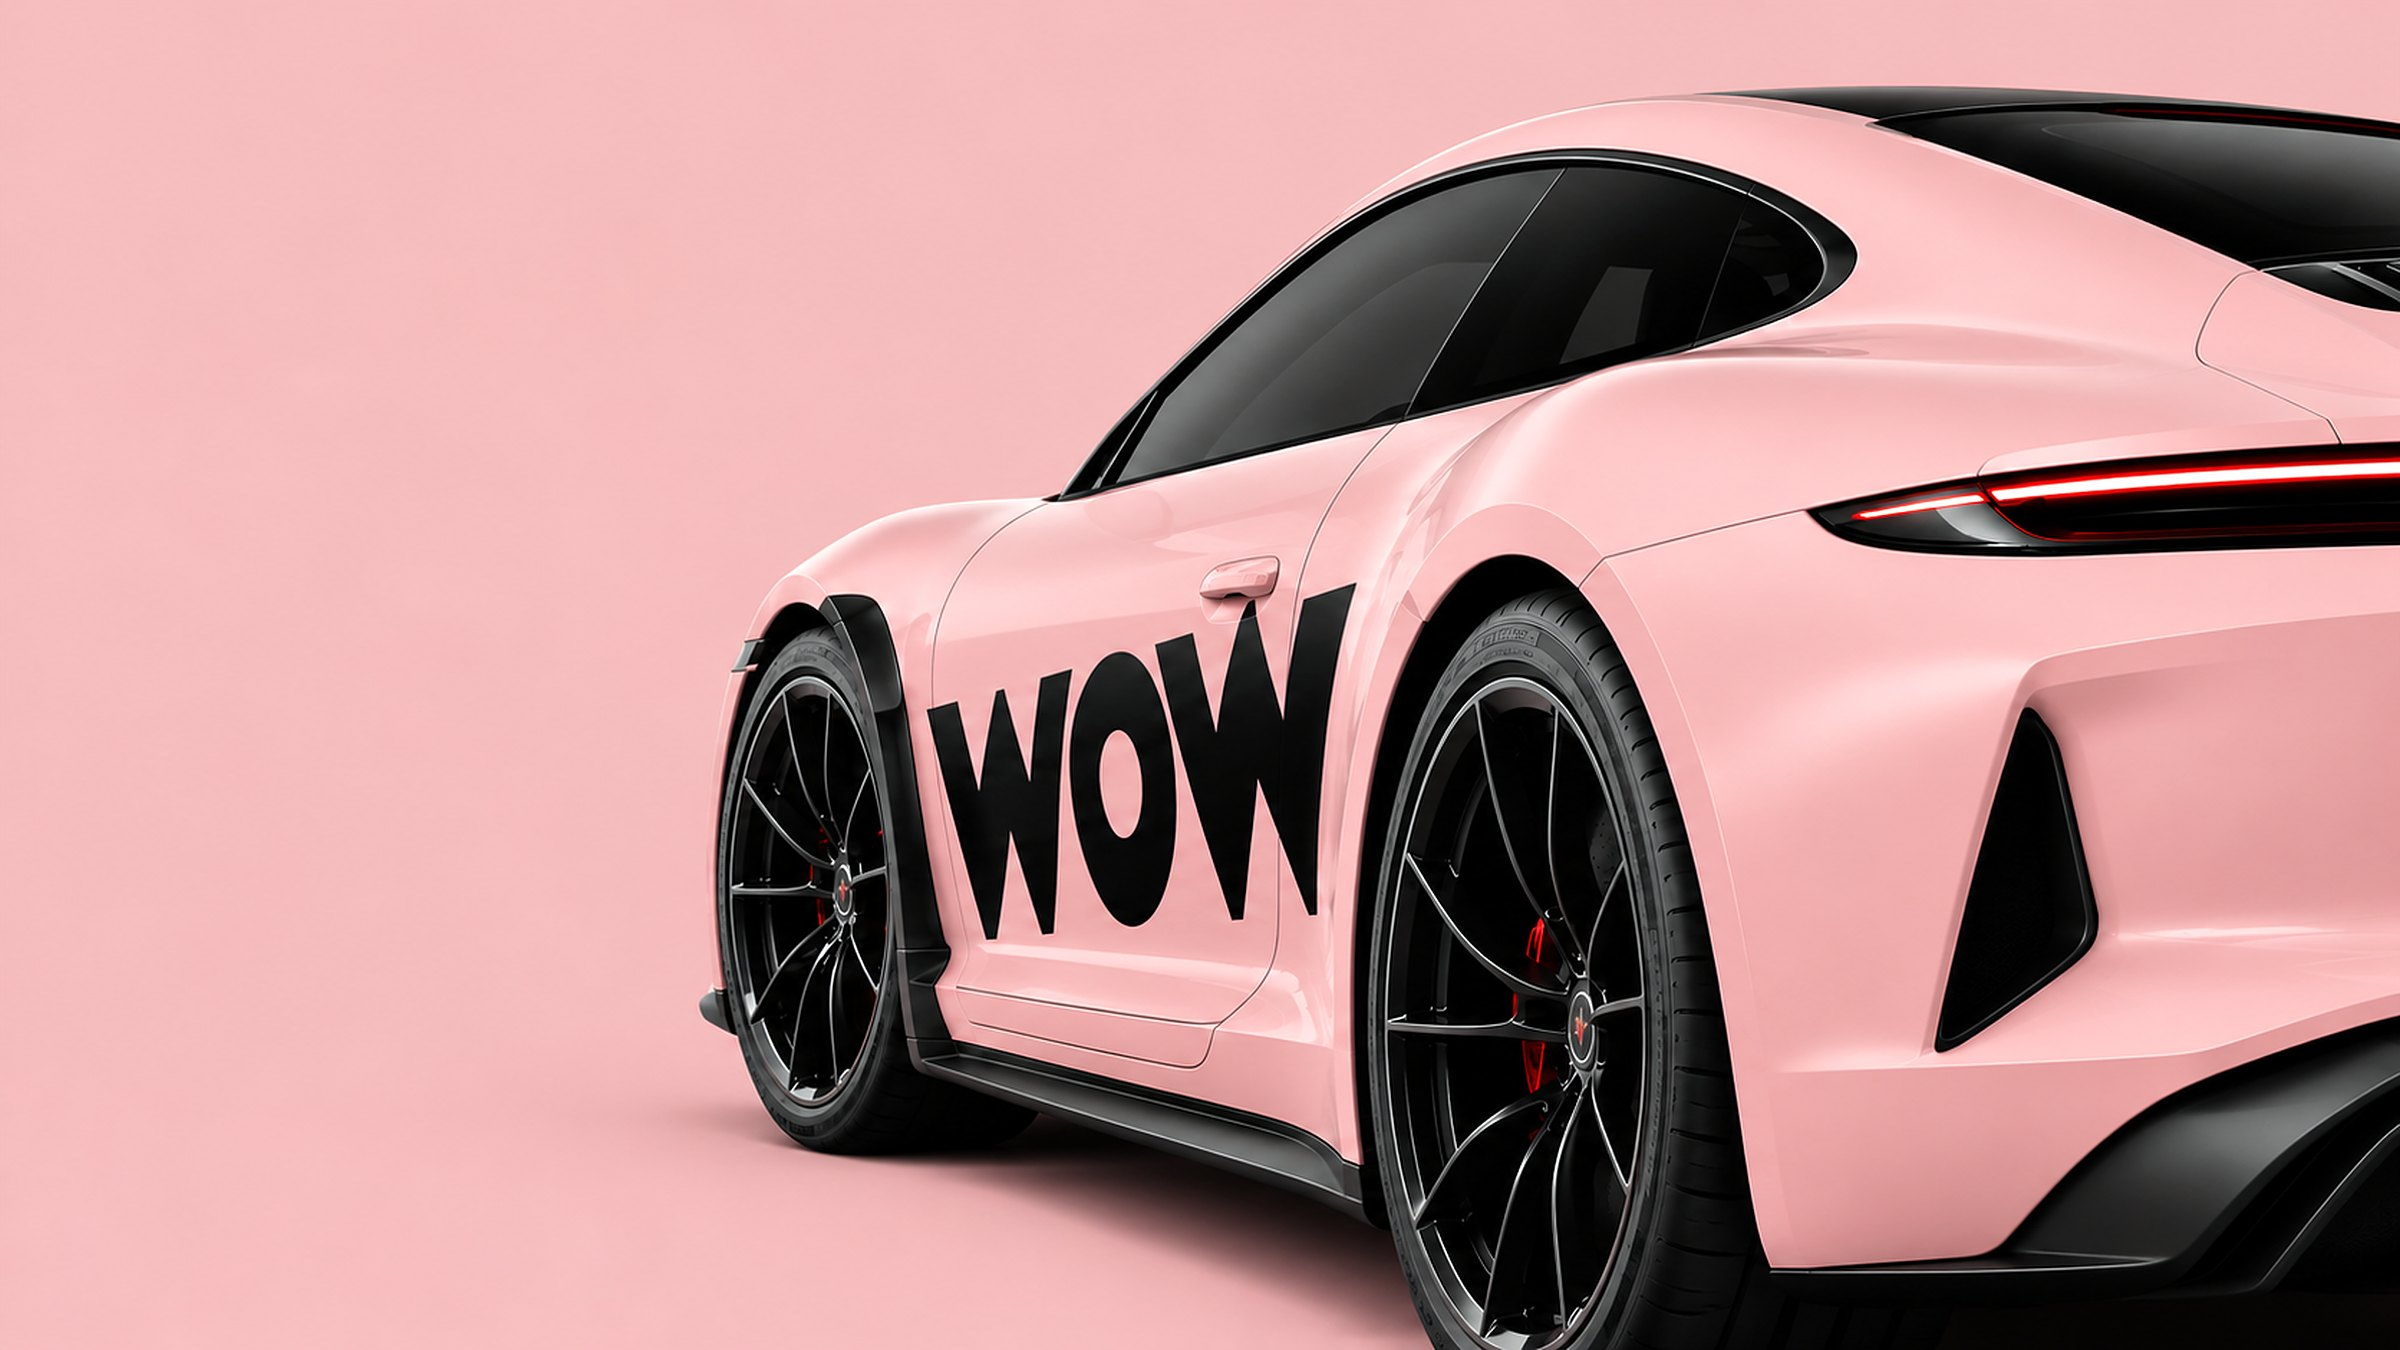
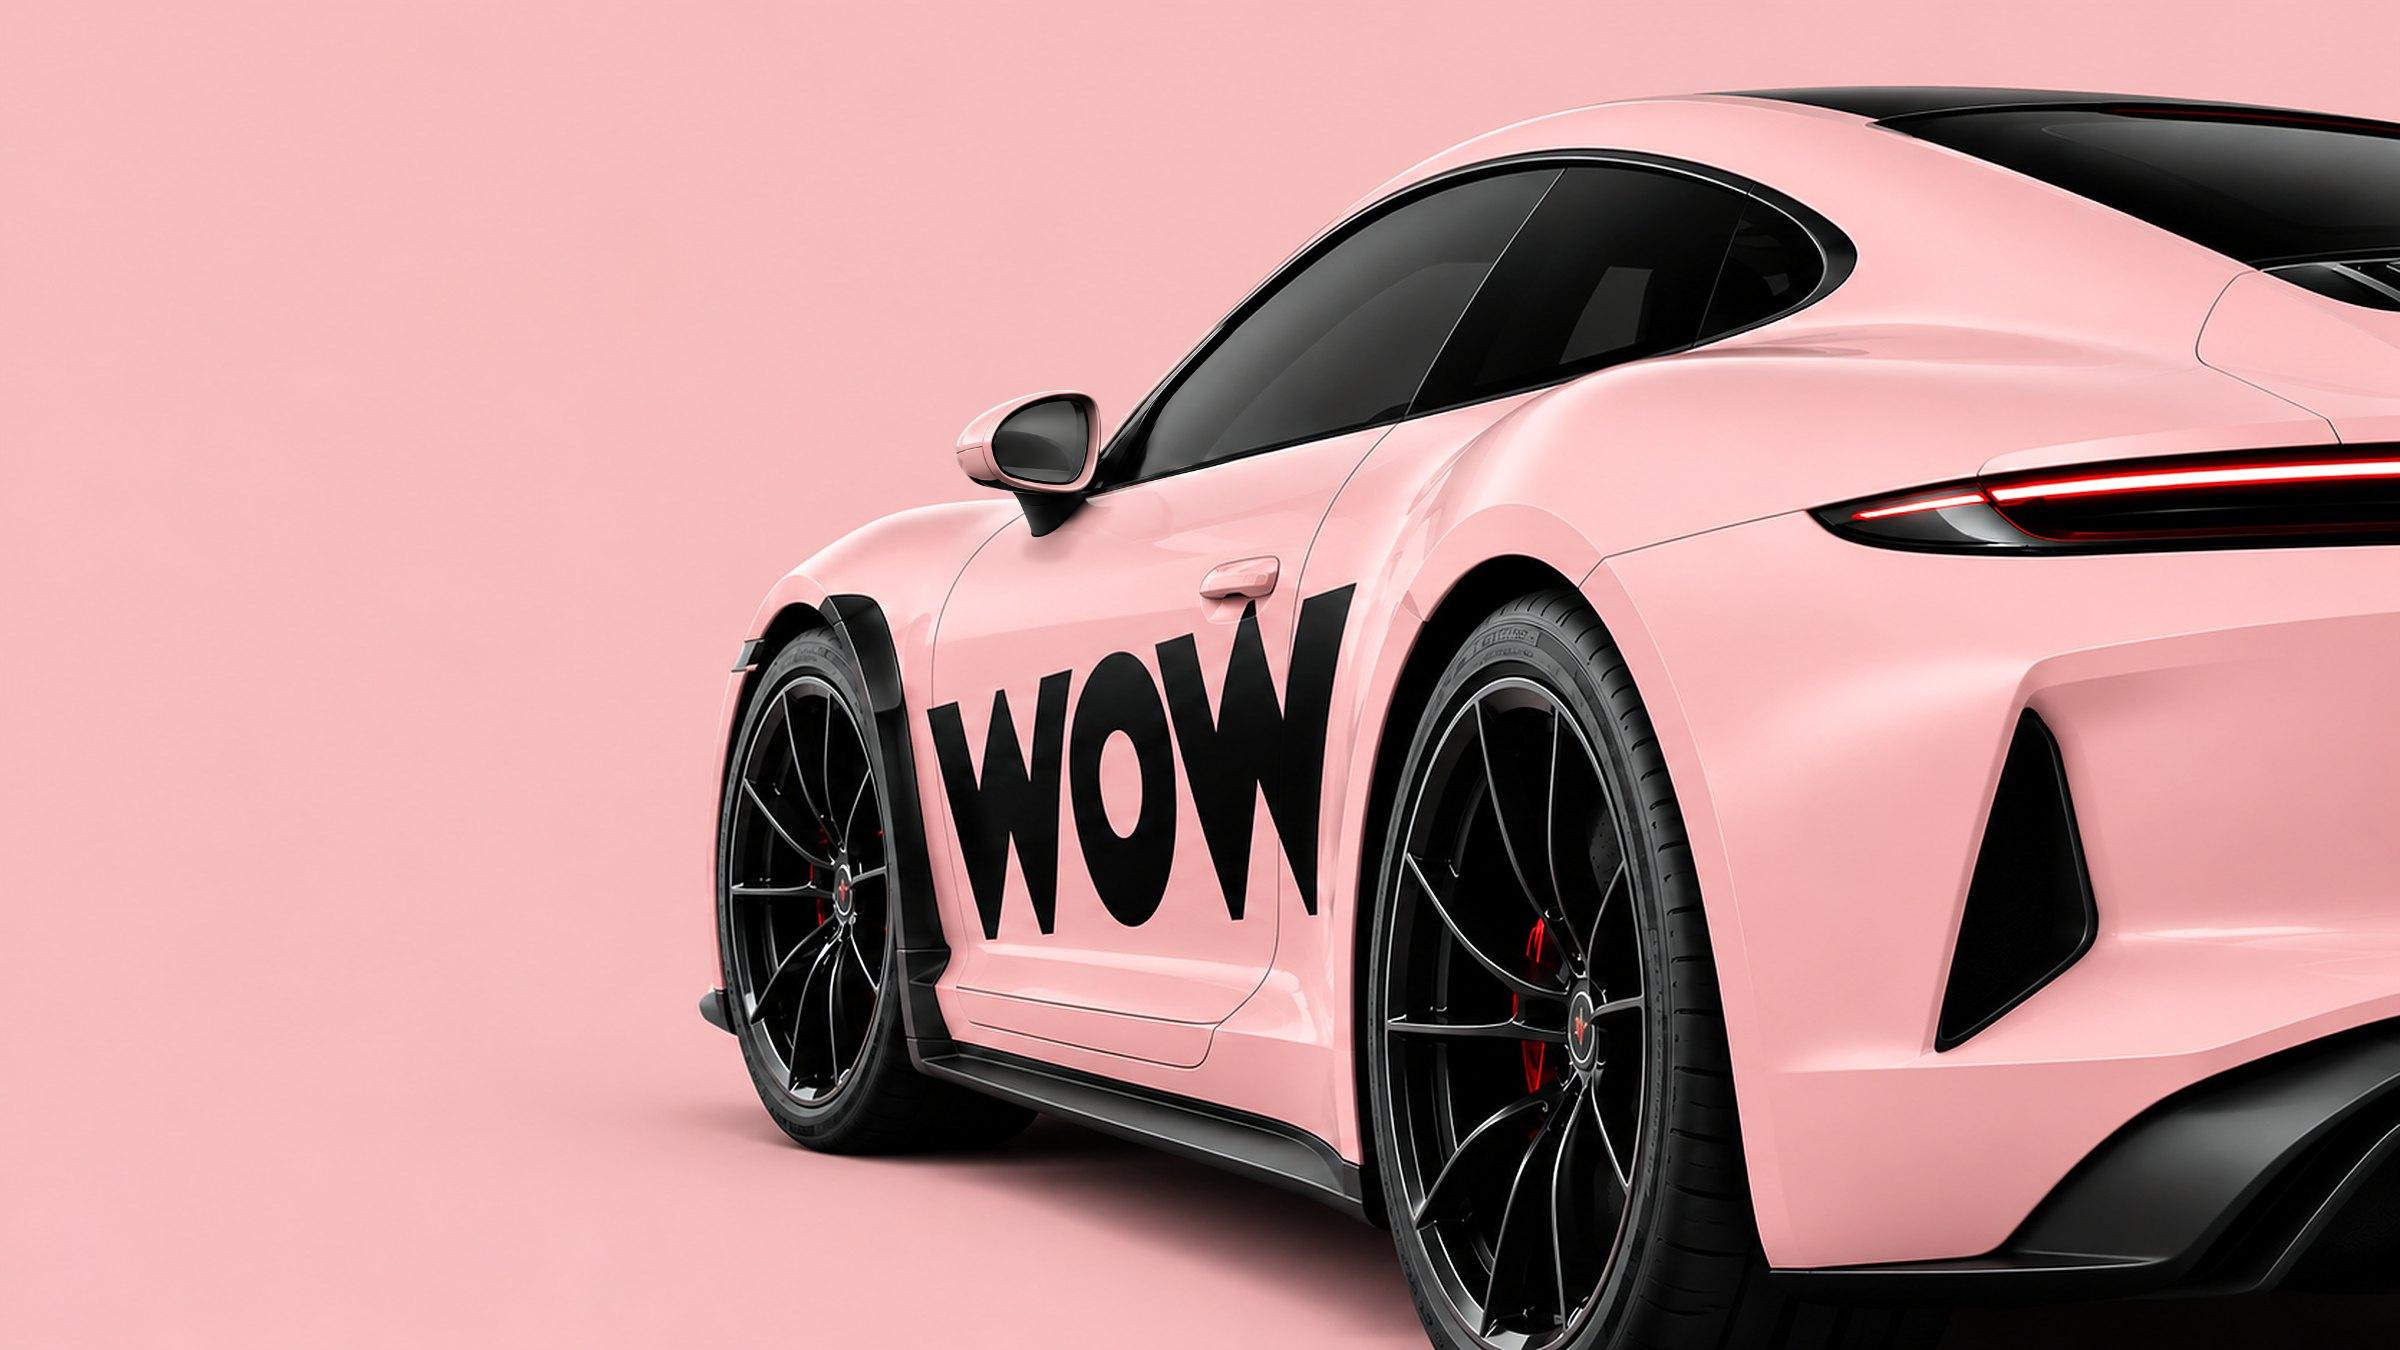
Hero-Bild: Seitenspiegel ergänzt (Startseite + Vorher/Nachher)
Claude-Session: https://claude.ai/code/session_01R9FQfsZ71UqZyyJypZUvar

Changed region(s): [[0.375, 0.2489, 0.5, 0.4044]]

diff --git a/site/leistungen/fahrzeugbeschriftung/index.html b/site/leistungen/fahrzeugbeschriftung/index.html
@@ -114,8 +114,8 @@
   <div class="wrap">
     <div class="section-head"><span class="eyebrow">Vorher / Nachher</span><h2 class="display d-l" data-lines><span class="line"><span>Gleiches Auto<span class="dot" aria-hidden="true"></span></span></span> <span class="line"><span>Neuer Auftritt<span class="dot" aria-hidden="true"></span></span></span></h2><p class="muted">Ziehen Sie den Regler und sehen Sie, was eine Folierung aus einem Fahrzeug macht.</p></div>
     <div class="ba" data-reveal>
-      <img src="../../assets/img/vehicle-after.jpg?v=88dcb06d" alt="Fahrzeug nach der Folierung" loading="lazy" decoding="async" >
-      <img class="ba-before" src="../../assets/img/vehicle-before.jpg?v=cb8151fb" alt="Fahrzeug vor der Folierung" loading="lazy">
+      <img src="../../assets/img/vehicle-after.jpg?v=37fd23a4" alt="Fahrzeug nach der Folierung" loading="lazy" decoding="async" >
+      <img class="ba-before" src="../../assets/img/vehicle-before.jpg?v=6432009d" alt="Fahrzeug vor der Folierung" loading="lazy">
       <span class="ba-label ba-label--l">Vorher</span><span class="ba-label ba-label--r">Nachher</span>
       <div class="ba-handle"></div>
       <input type="range" min="0" max="100" value="50" aria-label="Vorher-Nachher-Vergleich">

diff --git a/site/index.html b/site/index.html
@@ -81,7 +81,7 @@
 
 <section class="hero">
   <div class="hero-bgword" aria-hidden="true">WOW</div>
-  <div class="hero-media"><img src="assets/img/hero-car.jpg?v=88dcb06d" alt="Sportwagen in Rosa, foliert mit WOW-Schriftzug" loading="lazy" decoding="async" fetchpriority="high" loading="eager"></div>
+  <div class="hero-media"><img src="assets/img/hero-car.jpg?v=37fd23a4" alt="Sportwagen in Rosa, foliert mit WOW-Schriftzug" loading="lazy" decoding="async" fetchpriority="high" loading="eager"></div>
   <div class="wrap hero-content">
     <h1 class="display"><span class="line"><span>Wir machen</span></span> <span class="line"><span>Sie WOW<span class="dot" aria-hidden="true"></span></span></span></h1>
     <div class="hero-bottom">
